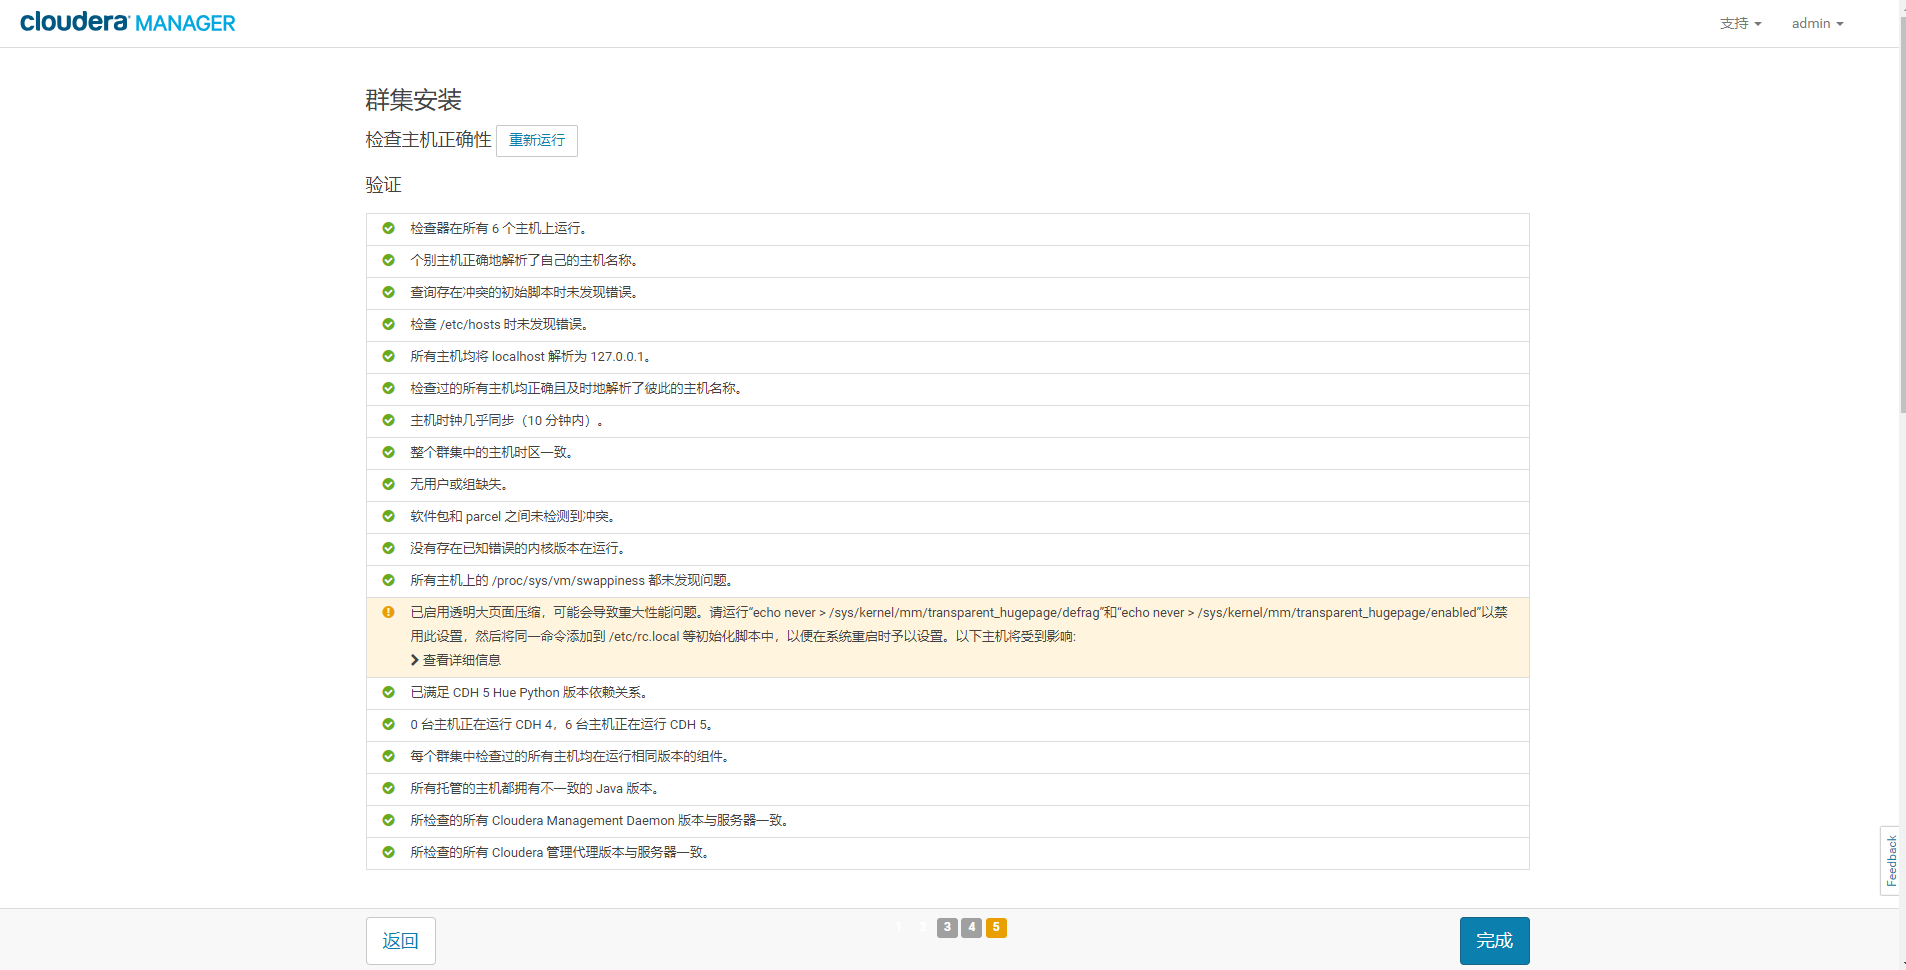
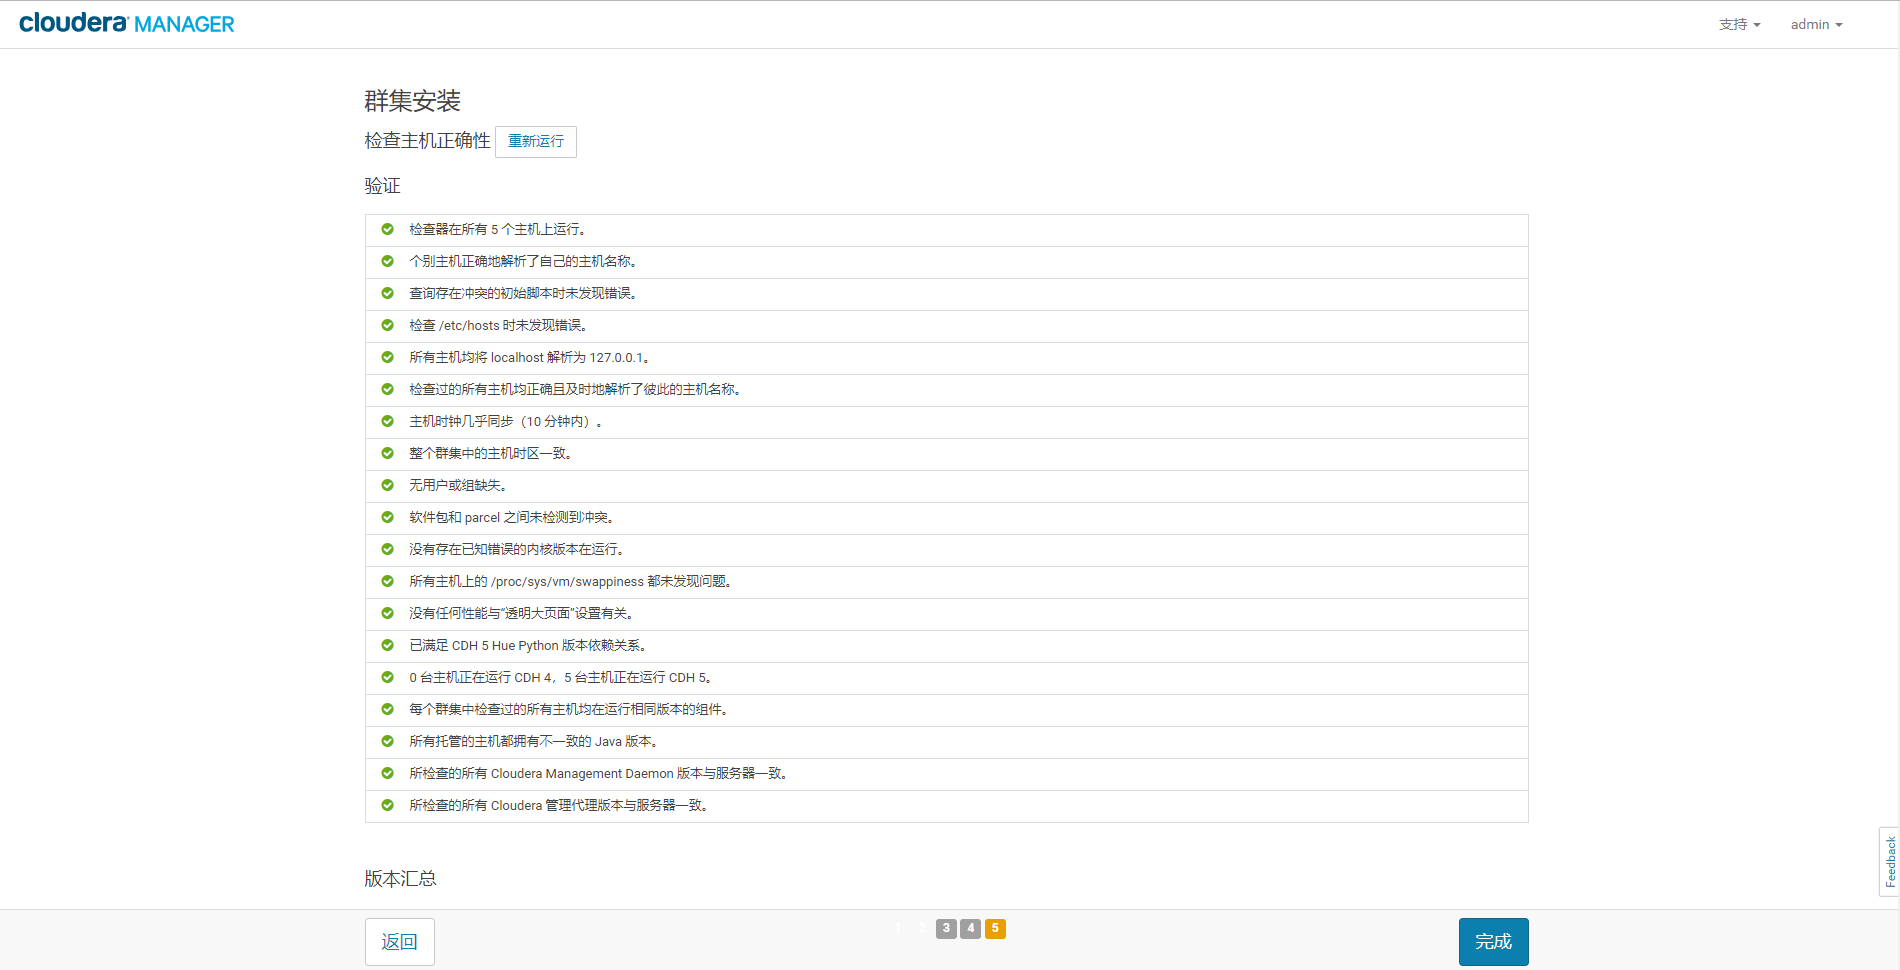
update Cloudera CDH

diff --git a/3.1.大数据/3.1.配置实例/5.Cloudera安装配置实例（CDH5.15.0）/暂存/2.6.安装CDH.md b/3.1.大数据/3.1.配置实例/5.Cloudera安装配置实例（CDH5.15.0）/暂存/2.6.安装CDH.md
@@ -90,11 +90,9 @@ http://xx.xx.xx.xx/cloudera-parcels/cdh5/5.15.0/
 
 ![检查主机正确性1](img/13.png)
 
-**注：看来要禁止大页面压缩！！**
-
 ![检查主机正确性2](img/14.png)
 
-**注：为什么自己安装的Java8不能用？？还有两个组件不可用？？？**
+**注：显示为不可用、不适用的组件其实已正确安装，不影响使用。**
 
 ### 3.12.Select Services
 选择要安装的服务组合。这里我们选择 "**自定义服务**"：`HDFS`、`Hive`、`Hue`、`Impala`、`Oozie`、
